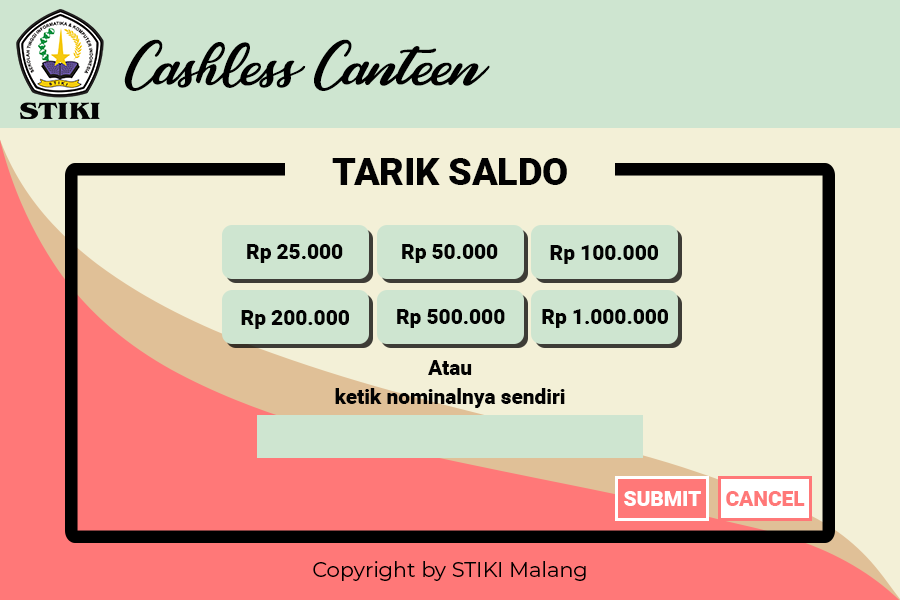
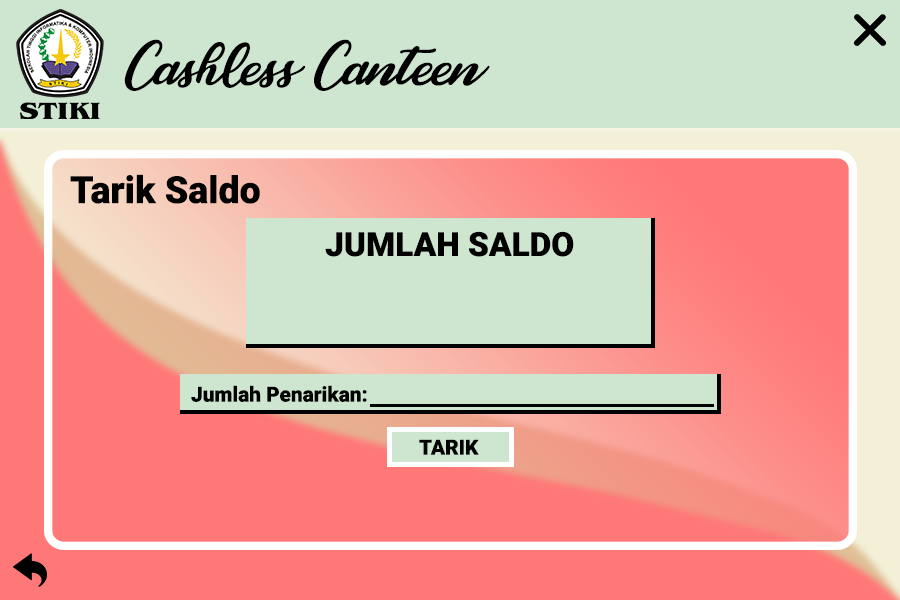
Update besar

diff --git a/src/Toko/Menu_Saldo.java b/src/Toko/Menu_Saldo.java
@@ -5,6 +5,7 @@
  */
 package Toko;
 
+import java.awt.Color;
 import java.sql.Connection;
 import java.sql.ResultSet;
 import java.sql.SQLException;
@@ -33,10 +34,12 @@ public class Menu_Saldo extends javax.swing.JFrame {
         conn = DB.conn;
         stm = DB.stm;
         setData();
+        tfNominalTarik.setBackground(new Color(0, 0, 0, 0));
     }
 
     private void setData(){
-        lbSaldo.setText(String.valueOf(toko_login.getSaldo()));
+        String saldo = String.valueOf(toko_login.getSaldo());
+        lbSaldo.setText ("Rp " + saldo);
     }
     
     private void clearData(){
@@ -54,121 +57,80 @@ public class Menu_Saldo extends javax.swing.JFrame {
     private void initComponents() {
 
         jTextField1 = new javax.swing.JTextField();
-        jLabel1 = new javax.swing.JLabel();
-        jLabel2 = new javax.swing.JLabel();
+        jLabel3 = new javax.swing.JLabel();
         lbSaldo = new javax.swing.JLabel();
-        jLabel4 = new javax.swing.JLabel();
         tfNominalTarik = new javax.swing.JTextField();
-        jLabel5 = new javax.swing.JLabel();
-        jLabel6 = new javax.swing.JLabel();
-        jLabel7 = new javax.swing.JLabel();
+        Btn_tarik = new javax.swing.JLabel();
+        btn_back = new javax.swing.JLabel();
+        btn_exit = new javax.swing.JLabel();
+        BG = new javax.swing.JLabel();
 
         jTextField1.setText("jTextField1");
 
+        jLabel3.setText("jLabel3");
+
         setDefaultCloseOperation(javax.swing.WindowConstants.EXIT_ON_CLOSE);
+        setUndecorated(true);
+        setResizable(false);
+        getContentPane().setLayout(new org.netbeans.lib.awtextra.AbsoluteLayout());
 
-        jLabel1.setFont(new java.awt.Font("Tahoma", 1, 24)); // NOI18N
-        jLabel1.setText("Menu Saldo");
+        lbSaldo.setFont(new java.awt.Font("Times New Roman", 0, 36)); // NOI18N
+        lbSaldo.setHorizontalAlignment(javax.swing.SwingConstants.CENTER);
+        getContentPane().add(lbSaldo, new org.netbeans.lib.awtextra.AbsoluteConstraints(245, 270, 405, 73));
 
-        jLabel2.setText("Jumlah Saldo  Rp.");
-
-        lbSaldo.setText("jLabel3");
-
-        jLabel4.setText("Jumlah Penarikan");
-
-        jLabel5.setText("Tarik");
-        jLabel5.setCursor(new java.awt.Cursor(java.awt.Cursor.HAND_CURSOR));
-        jLabel5.addMouseListener(new java.awt.event.MouseAdapter() {
-            public void mouseClicked(java.awt.event.MouseEvent evt) {
-                jLabel5MouseClicked(evt);
+        tfNominalTarik.setFont(new java.awt.Font("Times New Roman", 0, 18)); // NOI18N
+        tfNominalTarik.setBorder(null);
+        tfNominalTarik.addActionListener(new java.awt.event.ActionListener() {
+            public void actionPerformed(java.awt.event.ActionEvent evt) {
+                tfNominalTarikActionPerformed(evt);
             }
         });
+        getContentPane().add(tfNominalTarik, new org.netbeans.lib.awtextra.AbsoluteConstraints(370, 385, 340, 20));
 
-        jLabel6.setText("Kembali");
-        jLabel6.setCursor(new java.awt.Cursor(java.awt.Cursor.HAND_CURSOR));
-        jLabel6.addMouseListener(new java.awt.event.MouseAdapter() {
+        Btn_tarik.setCursor(new java.awt.Cursor(java.awt.Cursor.HAND_CURSOR));
+        Btn_tarik.addMouseListener(new java.awt.event.MouseAdapter() {
             public void mouseClicked(java.awt.event.MouseEvent evt) {
-                jLabel6MouseClicked(evt);
+                Btn_tarikMouseClicked(evt);
             }
         });
+        getContentPane().add(Btn_tarik, new org.netbeans.lib.awtextra.AbsoluteConstraints(388, 426, 125, 40));
 
-        jLabel7.setText("Keluar");
-        jLabel7.setCursor(new java.awt.Cursor(java.awt.Cursor.HAND_CURSOR));
-        jLabel7.addMouseListener(new java.awt.event.MouseAdapter() {
+        btn_back.setCursor(new java.awt.Cursor(java.awt.Cursor.HAND_CURSOR));
+        btn_back.addMouseListener(new java.awt.event.MouseAdapter() {
             public void mouseClicked(java.awt.event.MouseEvent evt) {
-                jLabel7MouseClicked(evt);
+                btn_backMouseClicked(evt);
             }
         });
+        getContentPane().add(btn_back, new org.netbeans.lib.awtextra.AbsoluteConstraints(10, 550, 40, 40));
 
-        javax.swing.GroupLayout layout = new javax.swing.GroupLayout(getContentPane());
-        getContentPane().setLayout(layout);
-        layout.setHorizontalGroup(
-            layout.createParallelGroup(javax.swing.GroupLayout.Alignment.LEADING)
-            .addGroup(layout.createSequentialGroup()
-                .addGap(221, 221, 221)
-                .addComponent(jLabel2)
-                .addGap(43, 43, 43)
-                .addComponent(lbSaldo)
-                .addGap(0, 0, Short.MAX_VALUE))
-            .addGroup(layout.createSequentialGroup()
-                .addGap(20, 20, 20)
-                .addGroup(layout.createParallelGroup(javax.swing.GroupLayout.Alignment.LEADING)
-                    .addComponent(jLabel6)
-                    .addGroup(layout.createSequentialGroup()
-                        .addComponent(jLabel1)
-                        .addPreferredGap(javax.swing.LayoutStyle.ComponentPlacement.RELATED, javax.swing.GroupLayout.DEFAULT_SIZE, Short.MAX_VALUE)
-                        .addComponent(jLabel7)))
-                .addGap(24, 24, 24))
-            .addGroup(layout.createSequentialGroup()
-                .addGap(181, 181, 181)
-                .addComponent(jLabel4)
-                .addGroup(layout.createParallelGroup(javax.swing.GroupLayout.Alignment.LEADING)
-                    .addGroup(layout.createSequentialGroup()
-                        .addGap(18, 18, 18)
-                        .addComponent(tfNominalTarik, javax.swing.GroupLayout.PREFERRED_SIZE, 160, javax.swing.GroupLayout.PREFERRED_SIZE))
-                    .addGroup(layout.createSequentialGroup()
-                        .addGap(32, 32, 32)
-                        .addComponent(jLabel5)))
-                .addContainerGap(188, Short.MAX_VALUE))
-        );
-        layout.setVerticalGroup(
-            layout.createParallelGroup(javax.swing.GroupLayout.Alignment.LEADING)
-            .addGroup(layout.createSequentialGroup()
-                .addGap(27, 27, 27)
-                .addGroup(layout.createParallelGroup(javax.swing.GroupLayout.Alignment.LEADING)
-                    .addComponent(jLabel1)
-                    .addComponent(jLabel7))
-                .addGap(40, 40, 40)
-                .addGroup(layout.createParallelGroup(javax.swing.GroupLayout.Alignment.BASELINE)
-                    .addComponent(jLabel2)
-                    .addComponent(lbSaldo))
-                .addGap(63, 63, 63)
-                .addGroup(layout.createParallelGroup(javax.swing.GroupLayout.Alignment.BASELINE)
-                    .addComponent(jLabel4)
-                    .addComponent(tfNominalTarik, javax.swing.GroupLayout.PREFERRED_SIZE, javax.swing.GroupLayout.DEFAULT_SIZE, javax.swing.GroupLayout.PREFERRED_SIZE))
-                .addGap(48, 48, 48)
-                .addComponent(jLabel5)
-                .addPreferredGap(javax.swing.LayoutStyle.ComponentPlacement.RELATED, 72, Short.MAX_VALUE)
-                .addComponent(jLabel6)
-                .addGap(25, 25, 25))
-        );
+        btn_exit.setCursor(new java.awt.Cursor(java.awt.Cursor.HAND_CURSOR));
+        btn_exit.addMouseListener(new java.awt.event.MouseAdapter() {
+            public void mouseClicked(java.awt.event.MouseEvent evt) {
+                btn_exitMouseClicked(evt);
+            }
+        });
+        getContentPane().add(btn_exit, new org.netbeans.lib.awtextra.AbsoluteConstraints(850, 10, 40, 40));
 
-        pack();
+        BG.setIcon(new javax.swing.ImageIcon(getClass().getResource("/Images/Toko/Tarik Saldo.png"))); // NOI18N
+        getContentPane().add(BG, new org.netbeans.lib.awtextra.AbsoluteConstraints(0, 0, 900, 600));
+
+        setSize(new java.awt.Dimension(900, 600));
+        setLocationRelativeTo(null);
     }// </editor-fold>//GEN-END:initComponents
 
-    private void jLabel6MouseClicked(java.awt.event.MouseEvent evt) {//GEN-FIRST:event_jLabel6MouseClicked
+    private void btn_backMouseClicked(java.awt.event.MouseEvent evt) {//GEN-FIRST:event_btn_backMouseClicked
         // TODO add your handling code here:
         Menu_Toko mt = new Menu_Toko();
         mt.setVisible(true);
         this.dispose();
-    }//GEN-LAST:event_jLabel6MouseClicked
+    }//GEN-LAST:event_btn_backMouseClicked
 
-    private void jLabel7MouseClicked(java.awt.event.MouseEvent evt) {//GEN-FIRST:event_jLabel7MouseClicked
+    private void btn_exitMouseClicked(java.awt.event.MouseEvent evt) {//GEN-FIRST:event_btn_exitMouseClicked
         // TODO add your handling code here:
         System.exit(0);
-    }//GEN-LAST:event_jLabel7MouseClicked
+    }//GEN-LAST:event_btn_exitMouseClicked
 
-    private void jLabel5MouseClicked(java.awt.event.MouseEvent evt) {//GEN-FIRST:event_jLabel5MouseClicked
+    private void Btn_tarikMouseClicked(java.awt.event.MouseEvent evt) {//GEN-FIRST:event_Btn_tarikMouseClicked
         // TODO add your handling code here:
         String nominal = tfNominalTarik.getText();
         int saldo = Integer.parseInt(nominal);
@@ -197,7 +159,11 @@ public class Menu_Saldo extends javax.swing.JFrame {
         }else{
             JOptionPane.showMessageDialog(null, "Nominal tidak boleh kosong");
         }
-    }//GEN-LAST:event_jLabel5MouseClicked
+    }//GEN-LAST:event_Btn_tarikMouseClicked
+
+    private void tfNominalTarikActionPerformed(java.awt.event.ActionEvent evt) {//GEN-FIRST:event_tfNominalTarikActionPerformed
+        // TODO add your handling code here:
+    }//GEN-LAST:event_tfNominalTarikActionPerformed
 
     /**
      * @param args the command line arguments
@@ -235,12 +201,11 @@ public class Menu_Saldo extends javax.swing.JFrame {
     }
 
     // Variables declaration - do not modify//GEN-BEGIN:variables
-    private javax.swing.JLabel jLabel1;
-    private javax.swing.JLabel jLabel2;
-    private javax.swing.JLabel jLabel4;
-    private javax.swing.JLabel jLabel5;
-    private javax.swing.JLabel jLabel6;
-    private javax.swing.JLabel jLabel7;
+    private javax.swing.JLabel BG;
+    private javax.swing.JLabel Btn_tarik;
+    private javax.swing.JLabel btn_back;
+    private javax.swing.JLabel btn_exit;
+    private javax.swing.JLabel jLabel3;
     private javax.swing.JTextField jTextField1;
     private javax.swing.JLabel lbSaldo;
     private javax.swing.JTextField tfNominalTarik;

diff --git a/src/Toko/Tambah_Menu.java b/src/Toko/Tambah_Menu.java
@@ -80,6 +80,8 @@ public class Tambah_Menu extends javax.swing.JFrame {
         BG = new javax.swing.JLabel();
 
         setDefaultCloseOperation(javax.swing.WindowConstants.EXIT_ON_CLOSE);
+        setUndecorated(true);
+        setResizable(false);
         getContentPane().setLayout(new org.netbeans.lib.awtextra.AbsoluteLayout());
 
         btn_back.setCursor(new java.awt.Cursor(java.awt.Cursor.HAND_CURSOR));
@@ -153,7 +155,7 @@ public class Tambah_Menu extends javax.swing.JFrame {
         BG.setIcon(new javax.swing.ImageIcon(getClass().getResource("/Images/Toko/Tambah_Menu.png"))); // NOI18N
         getContentPane().add(BG, new org.netbeans.lib.awtextra.AbsoluteConstraints(0, 0, -1, -1));
 
-        setSize(new java.awt.Dimension(916, 639));
+        setSize(new java.awt.Dimension(900, 600));
         setLocationRelativeTo(null);
     }// </editor-fold>//GEN-END:initComponents
 
@@ -191,7 +193,9 @@ public class Tambah_Menu extends javax.swing.JFrame {
                 stm.executeUpdate("INSERT INTO menu VALUES(NULL, '"+idToko+"', '"+namaMenu+"', '"+deskripsi+"','"+link+"', '"+kategori+"', '"+harga+"', '"+statusTersedia+"', '0')");
                 Files.copy(Paths.get(asalFile), Paths.get(linkFile));
                 JOptionPane.showMessageDialog(null, "Menu berhasil diinput");
-                clearText();
+                Atur_Menu am = new Atur_Menu();
+                am.setVisible(true);
+                this.dispose();
             } catch (SQLException | IOException ex) {
                 JOptionPane.showMessageDialog(null, ex);
             }

diff --git a/src/Admin/List_Transaksi.java b/src/Admin/List_Transaksi.java
@@ -47,7 +47,8 @@ public class List_Transaksi extends javax.swing.JFrame {
         
         if(kode == 1){            
             try{
-                rs = stm.executeQuery("SELECT t.id_transaksi, u.username, t.jenis_transaksi, t.total_transaksi, t.waktu_transaksi, t.status FROM user u INNER JOIN transaksi t ON u.ID_USER = t.ID_USER LEFT JOIN pembelian p ON t.ID_TRANSAKSI = p.ID_TRANSAKSI WHERE u.USERNAME = '"+value+"' OR p.ID_TOKO = '"+value+"' ORDER BY waktu_transaksi ASC");
+                rs = stm.executeQuery("SELECT t.id_transaksi, u.username, t.jenis_transaksi, t.total_transaksi, t.waktu_transaksi, t.status FROM user u "
+                        + "INNER JOIN transaksi t ON u.ID_USER = t.ID_USER LEFT JOIN pembelian p ON t.ID_TRANSAKSI = p.ID_TRANSAKSI WHERE u.USERNAME = '"+value+"' OR p.ID_TOKO = '"+value+"' ORDER BY waktu_transaksi ASC");
                 while(rs.next()){
                     Object[] data = new Object[6];
                     data[0] = rs.getString("id_transaksi");
